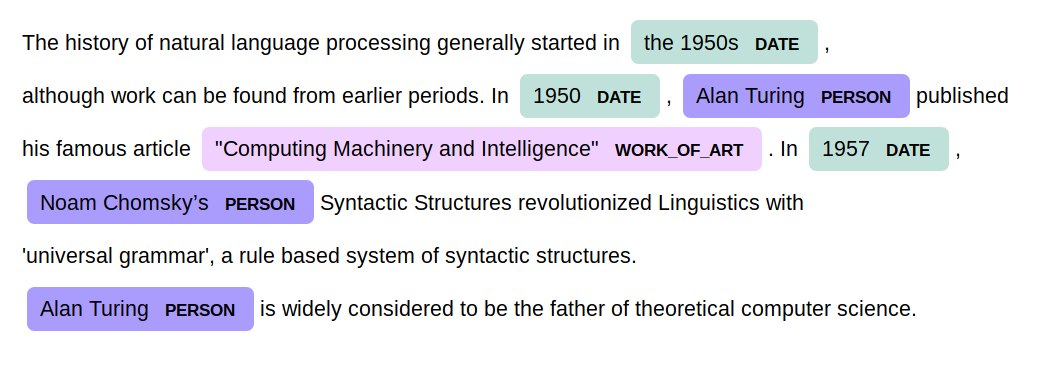
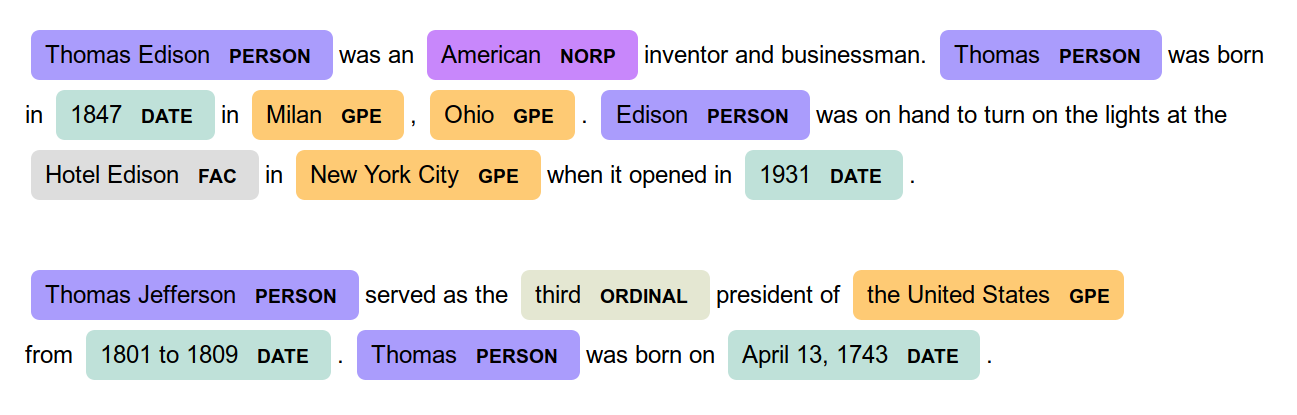
updated example

diff --git a/example.py b/example.py
@@ -13,6 +13,15 @@ Noam Chomsky’s Syntactic Structures revolutionized Linguistics with
 Alan Turing is widely considered to be the father of theoretical computer science.
 """
 
+text = """
+Thomas Edison was an American inventor and businessman. Thomas was born
+in 1847 in Milan, Ohio. Edison was on hand to turn on the lights at the
+Hotel Edison in New York City when it opened in 1931.
+
+Thomas Jefferson served as the third president of the United States
+from 1801 to 1809. Thomas was born on April 13, 1743.
+"""
+
 print(text)
 
 print(text_anonymizer.anonymize(text,name_types=["PERSON"], fictional=False))
